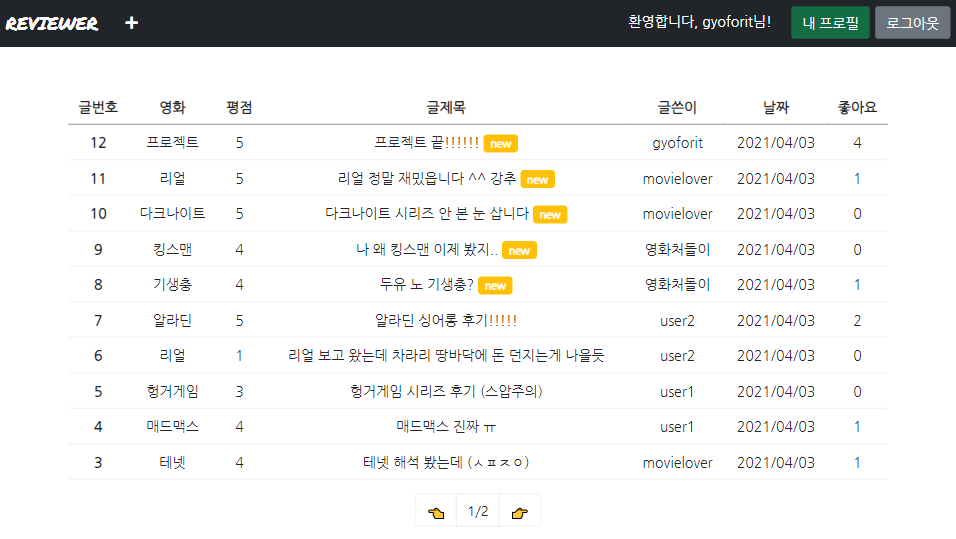
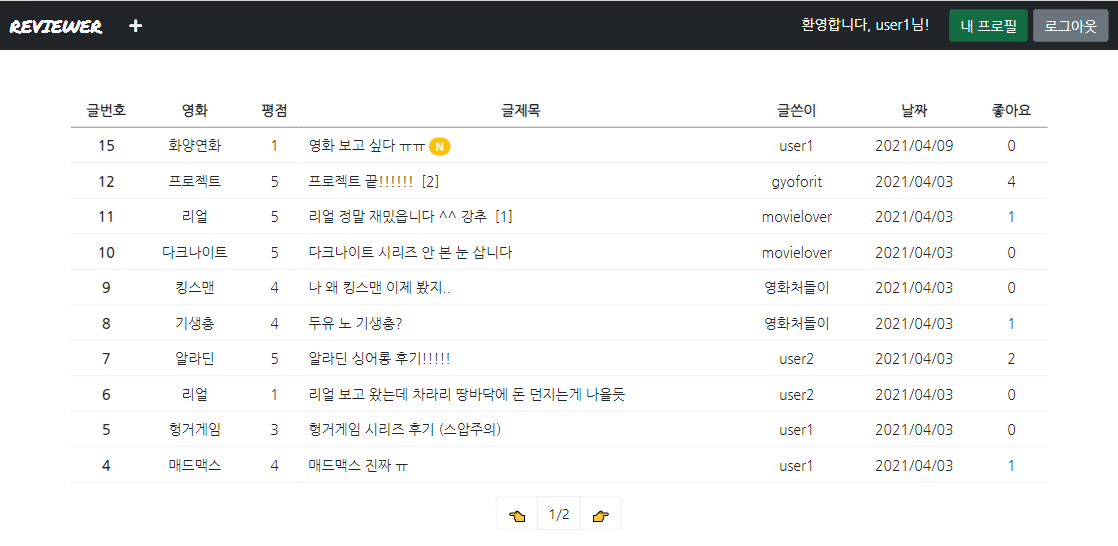
Update README

diff --git a/README.md b/README.md
@@ -22,6 +22,11 @@
 - 글 마다 좋아요 개수가 보인다.
 - 한 페이지에 10개의 게시물만 보인다.
 
+< 21.04.09 업데이트>
+
+- 'new' 뱃지 간소화(new->n, 둥근 모양으로 변경)
+- 댓글이 달린 글의 경우 글제목 옆에 댓글 개수가 보임
+
 ![](README.assets/index.PNG)
 
 
@@ -31,7 +36,16 @@
 - 좋아요 버튼을 하트로 구현했다.
 - 버튼 옆에 좋아요를 누른 사람의 수를 보여준다.
 
-<img src="README.assets/detail.PNG" style="zoom:67%;" />
+< 21.04.09 업데이트 >
+
+- 글 정보 깔끔하게 정리
+- 제목 크기 조정
+- 댓글 목록 -> 댓글 {댓글개수} / BACK -> 목록 으로 바꾸는 등 자잘한 것들 정리
+- 글 삭제 버튼 클릭 시 모달 띄워서 재확인
+
+<img src="README.assets/detail.PNG"  />
+
+![](README.assets/detail2.PNG)
 
 
 
@@ -41,7 +55,13 @@
 - 네비게이션 바에 있던 '회원정보수정', '회원탈퇴' 버튼이 내 프로필 상세 페이지로 이동했다.
 - 내가 작성한 글과 좋아요한 글 목록이 보인다.
 
+< 21.04.09 업데이트 >
+
+- 회원탈퇴 버튼 클릭 시 모달 띄워서 재확인
+
 ![](README.assets/profile_me.PNG)
+
+![](README.assets/profile_modal.PNG)
 
 
 
@@ -195,7 +215,41 @@ def index(request):
 
 
 
-#### 5. 기타
+#### 5. 글 삭제 / 회원 탈퇴 modal
+
+> 지난 프로젝트에서 구현하려다 실패한 모달을 드디어...!
+
+- 예전 프로젝트 README를 복습해보니 프론트엔드 프로젝트 할 때에도 모달 위치 때문에 모달 활성화가 안 되는 오류를 겪었었다. 이 때에도 모달 위치가 문제였던걸 고려해서 이번에 모달 위치를 바꿔보았더니 놀랍게도 성공했다!
+
+- 기존의 html 구조는 if문 안에 modal trigger와 modal이 동시에 들어갔다. (구조만 확인할 수 있도록 수도코드(?)로 작성)
+
+  ```html
+  </div>
+  {% if request.user == review.user %}
+  	수정 버튼
+  	modal trigger (삭제 버튼)
+  	modal 내용
+  {% endif %}
+  ```
+
+- 여기서 modal을 block content 바로 밑의 위치로 바꾸어주었더니 작동했다.
+
+  ```html
+  </div>
+  {% if request.user == review.user %}
+  	수정 버튼
+  	modal trigger (삭제 버튼)
+  {% endif %}
+  modal 내용
+  <div>
+  ....
+  ```
+
+- 이젠 modal 위치에 대해 절대 헷갈리지 않을 것이다...!
+
+
+
+#### 6. 기타
 
 - google font 사이트에서 가져온 영문/한글 폰트를 적용했다. 이 때 static을 활용해서 font에 해당하는 css style 파일을 따로 저장해두었다.
 - table 태그를 활용하여 index페이지의 영화 리뷰, profile페이지의 작성 글 목록/좋아요 글 목록을 표 형태로 구현하여 보다 깔끔하게 만들었다.
